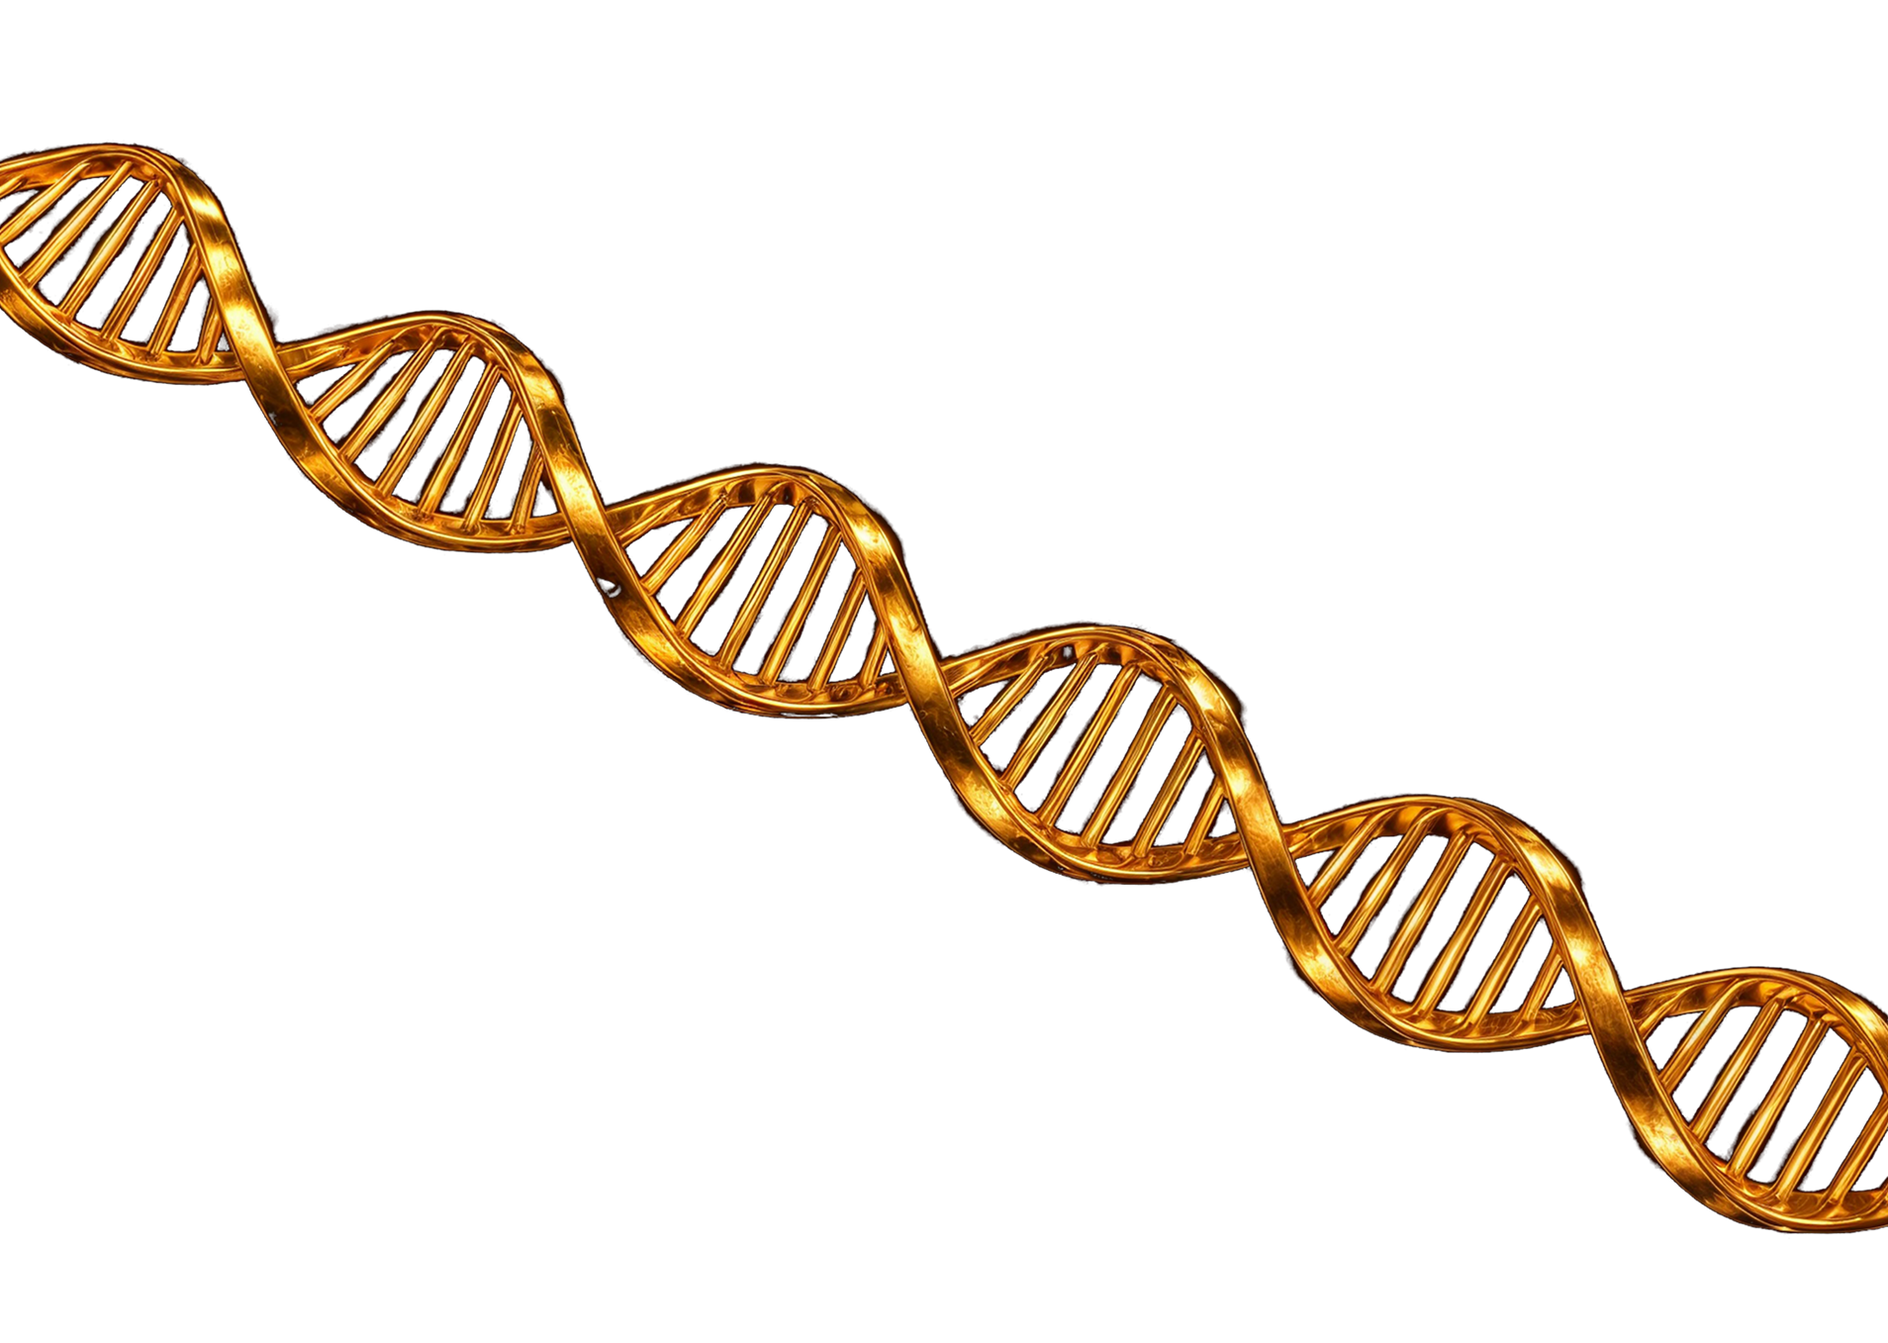
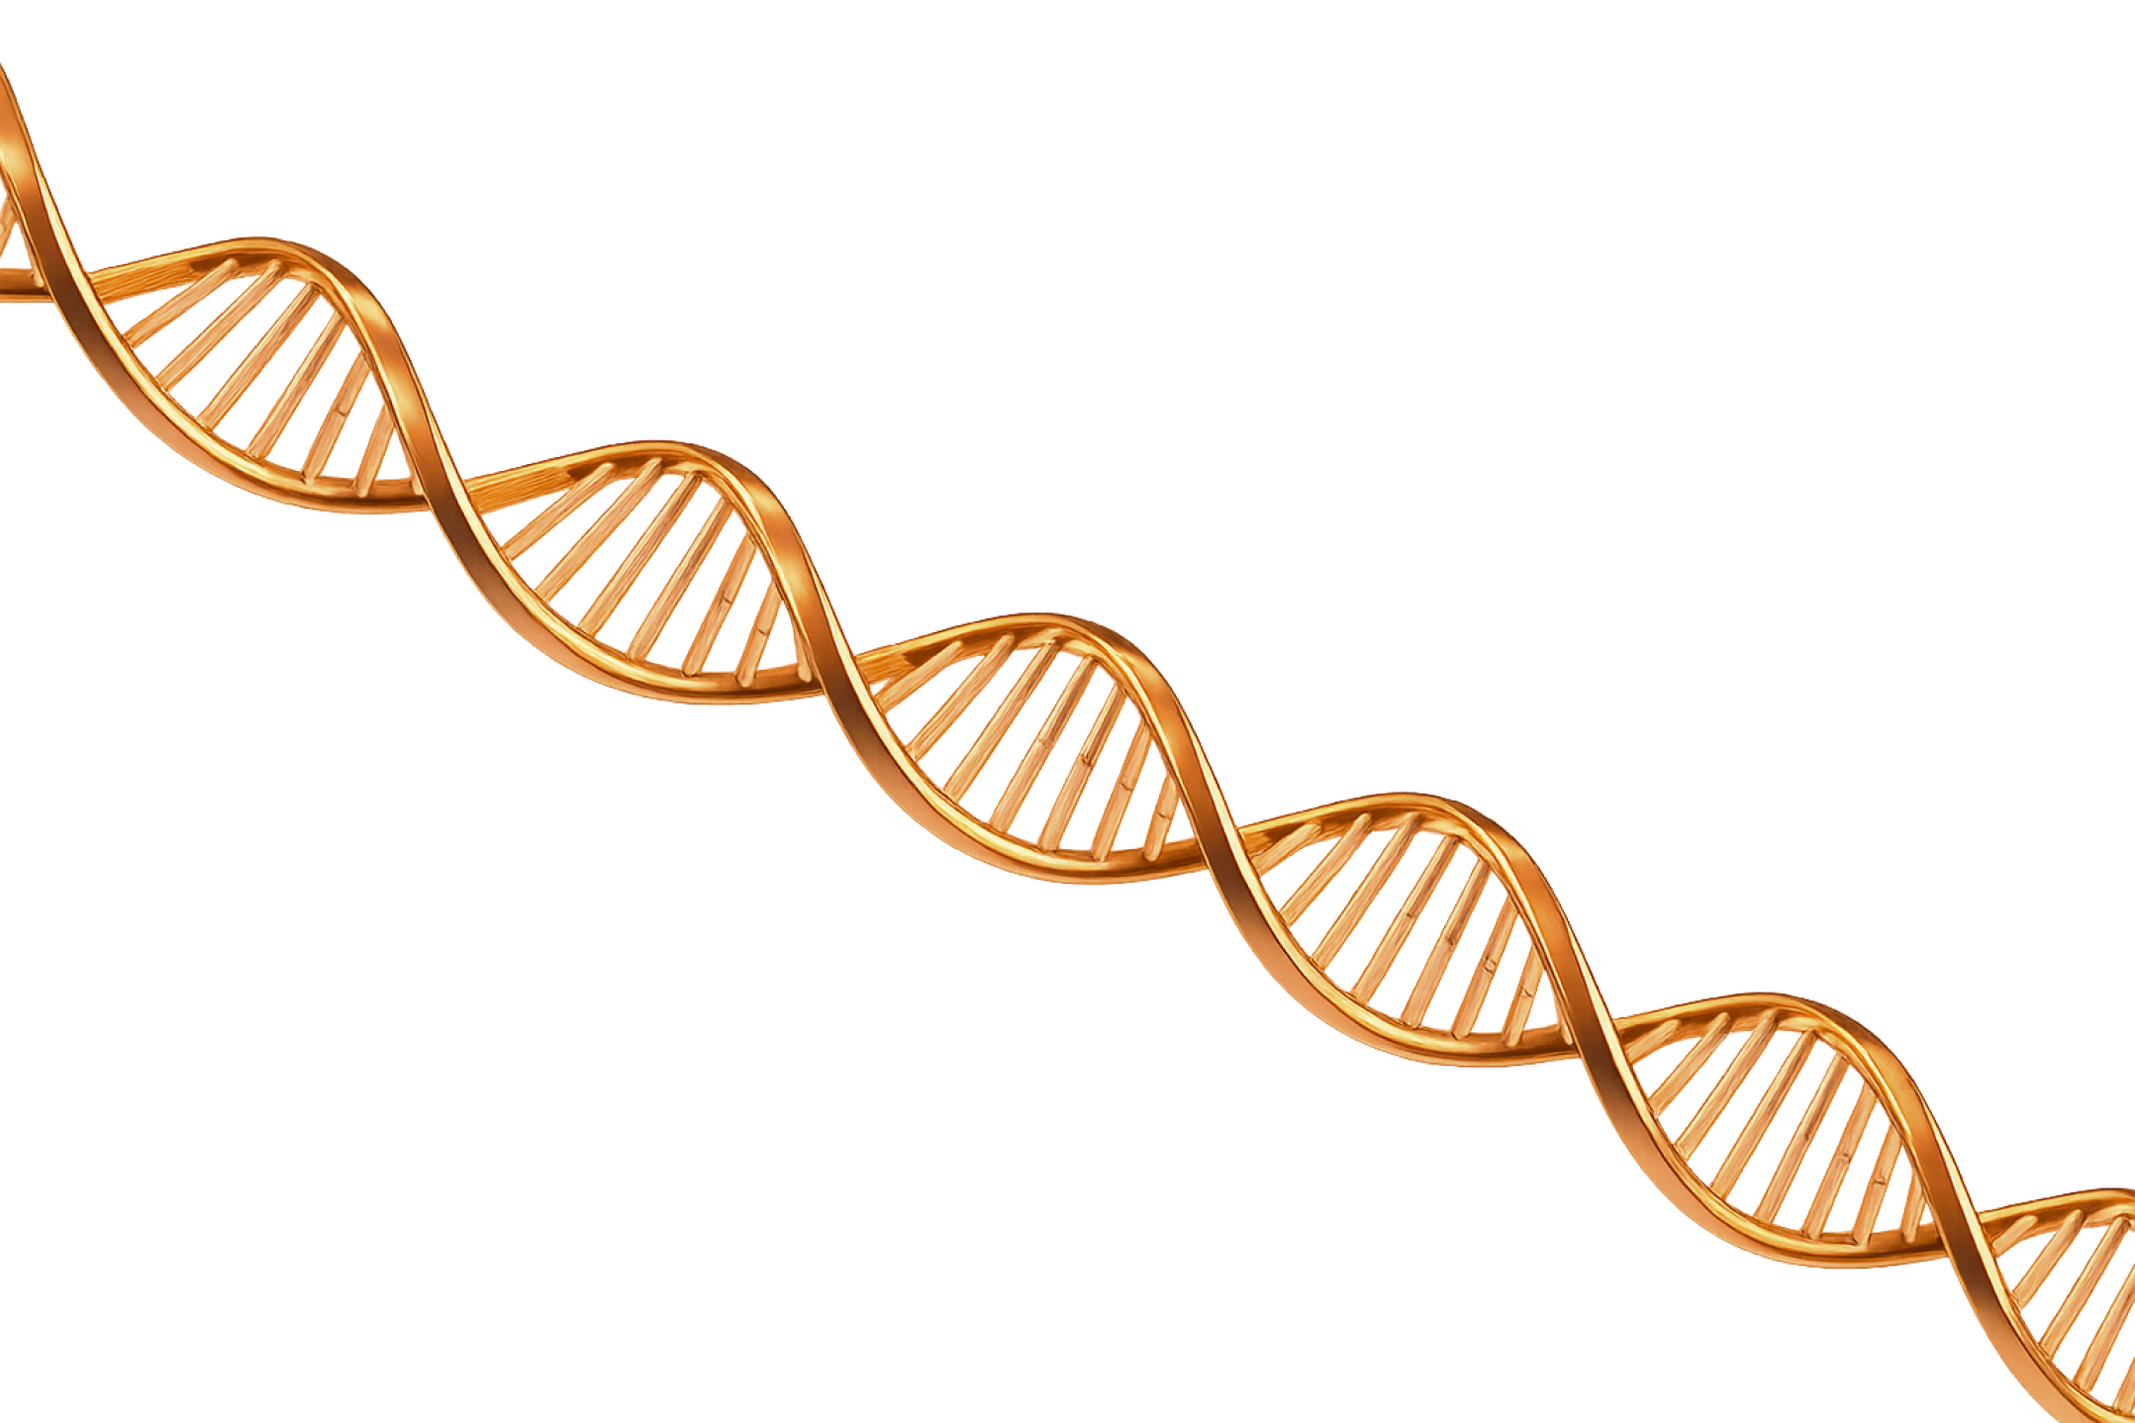
change about hero, change dna img

Changed region(s): [[0.0, 0.0619, 1.0, 1.0]]

diff --git a/src/app/responsive.css b/src/app/responsive.css
@@ -270,7 +270,7 @@
 
 @media (max-width: 1250px) {
 	.about_hero-title {
-		font-size: min(15vw, calc((100svh - 130px) / 1.85));
+		font-size: min(16vw, calc((100svh - 130px) / 1.85));
 	}
 
 	.about_hero-title > .about_hero-accent {
@@ -356,6 +356,10 @@
 }
 
 @media (max-width: 1200px) {
+	.about_hero-title {
+		margin-left: clamp(32px, 8vw, 96px);
+	}
+
 	.reviews_slider {
 		position: relative;
 		display: flex;
@@ -586,6 +590,10 @@
 		height: 100svh;
 		min-height: 450px;
 		display: block;
+	}
+
+	.about_hero-title {
+		margin-left: 0;
 	}
 
 	.about_hero-btn {

diff --git a/src/app/globals.css b/src/app/globals.css
@@ -3872,8 +3872,8 @@ a {
 	.about_hero-title {
 		position: relative;
 		z-index: 2;
-		margin-left: clamp(28px, 7vw, 140px);
-		font-size: min(15vw, calc((100svh - 135px) / 1.85));
+		margin-left: clamp(80px, 16vw, 300px);
+		font-size: min(16vw, calc((100svh - 135px) / 1.85));
 		line-height: 0.82;
 		text-align: left;
 		white-space: nowrap;
@@ -3895,7 +3895,7 @@ a {
 	.about_hero-astronaut {
 		position: absolute;
 		z-index: 3;
-		left: 50%;
+		left: 48%;
 		top: 51%;
 		width: min(76vw, max(1014px, calc(156svh - 167px)));
 		max-width: none;

diff --git a/NEWSLETTER_SETUP.md b/NEWSLETTER_SETUP.md
@@ -1,15 +1,97 @@
-# Newsletter setup
+# Настройка рассылки
 
-The site stores every subscription in Sanity and mirrors active subscribers to
-Resend. Each language has its own Resend Segment, so subscribers only receive
-articles in the language they selected on the site.
+На сайте подписки работают через два сервиса:
 
-## 1. Resend
+- **Sanity** хранит подписчиков и историю отправок;
+- **Resend** хранит контакты и отправляет письма.
 
-1. Verify the sending domain in Resend.
-2. Create three Segments: English, Russian, and Ukrainian.
-3. Create an API key with access to Contacts and Broadcasts.
-4. Add the following production environment variables:
+Для английской, русской и украинской версий используются отдельные сегменты
+Resend. Благодаря этому подписчик получает статьи только на выбранном языке.
+
+## Что понадобится
+
+- доступ к проекту **Resend**;
+- доступ к проекту **Sanity**;
+- доступ к настройкам проекта на **Vercel**;
+- домен `raagency.tech` и доступ к его DNS-записям.
+
+Секретные ключи нельзя добавлять в Git или вставлять в клиентский код. Их нужно
+хранить только в переменных окружения Vercel и, при локальной разработке, в
+файле `.env.local`.
+
+## Шаг 1. Подтвердить домен в Resend
+
+1. Зайти на [resend.com](https://resend.com/) и открыть нужный проект.
+2. В левом меню открыть **Domains**.
+3. Нажать **Add Domain** и добавить `raagency.tech`.
+4. Resend покажет DNS-записи, которые нужно создать у регистратора домена или
+   в панели управления DNS.
+5. Добавить все показанные записи.
+6. Вернуться в Resend → **Domains** и дождаться статуса **Verified**.
+
+Адрес отправителя в проекте:
+
+```text
+RA Agency <newsletter@raagency.tech>
+```
+
+Он заработает только после подтверждения домена.
+
+## Шаг 2. Создать три сегмента в Resend
+
+1. В Resend открыть раздел **Contacts** → **Segments**.
+2. Создать три сегмента:
+   - `English`;
+   - `Russian`;
+   - `Ukrainian`.
+3. Открыть каждый сегмент и скопировать его ID из страницы сегмента или URL.
+4. Сохранить соответствие:
+
+```env
+RESEND_NEWSLETTER_SEGMENT_ID_EN=ID_сегмента_English
+RESEND_NEWSLETTER_SEGMENT_ID_RU=ID_сегмента_Russian
+RESEND_NEWSLETTER_SEGMENT_ID_UA=ID_сегмента_Ukrainian
+```
+
+Не путать ID сегмента с его названием.
+
+## Шаг 3. Создать API-ключ Resend
+
+1. В Resend открыть **API Keys**.
+2. Нажать **Create API Key**.
+3. Назвать ключ, например `RA Agency Production`.
+4. Выдать ключу доступ, необходимый для **Contacts** и **Broadcasts**.
+5. Скопировать ключ сразу после создания. Повторно полностью посмотреть его
+   обычно нельзя.
+
+Получится значение вида:
+
+```env
+RESEND_API_KEY=re_...
+```
+
+## Шаг 4. Создать токен Sanity
+
+1. Открыть [sanity.io/manage](https://www.sanity.io/manage).
+2. Выбрать проект RA Agency.
+3. Открыть **API** → **Tokens**.
+4. Нажать **Add API token**.
+5. Назвать токен, например `RA Agency Newsletter Production`.
+6. Выбрать права **Editor**. Токен должен уметь создавать и изменять документы
+   `newsletterSubscriber` и `newsletterDelivery`.
+7. Скопировать токен.
+
+Полученное значение:
+
+```env
+SANITY_API_WRITE_TOKEN=...
+```
+
+## Шаг 5. Добавить переменные окружения в Vercel
+
+1. Открыть проект сайта в [vercel.com](https://vercel.com/).
+2. Перейти в **Settings** → **Environment Variables**.
+3. Добавить все переменные ниже для окружения **Production**:
 
 ```env
 RESEND_API_KEY=re_...
@@ -18,46 +100,135 @@ RESEND_NEWSLETTER_SEGMENT_ID_RU=...
 RESEND_NEWSLETTER_SEGMENT_ID_UA=...
 RESEND_FROM_EMAIL="RA Agency <newsletter@raagency.tech>"
 NEXT_PUBLIC_SITE_URL=https://raagency.tech
+SANITY_API_WRITE_TOKEN=...
 ```
 
-## 2. Sanity webhook
+Переменную `SANITY_WEBHOOK_SECRET` добавим на следующем шаге.
 
-Create a document webhook in the Sanity project:
+После добавления или изменения переменных нужно выполнить новый **Deploy**.
+Старый уже запущенный deployment новые значения не получит.
 
-- URL: `https://raagency.tech/api/newsletter/article-published`
-- Trigger: Create and Update
-- Dataset: the production dataset
-- Filter:
+## Шаг 6. Создать секрет для webhook
+
+Сгенерировать длинную случайную строку. Это будет общий секрет между Sanity и
+сайтом. Например, можно использовать менеджер паролей и создать пароль длиной
+не менее 32 символов.
+
+1. В Vercel добавить переменную:
+
+```env
+SANITY_WEBHOOK_SECRET=ваша_длинная_случайная_строка
+```
+
+2. Сохранить эту строку — точно такое же значение понадобится в Sanity.
+3. Никому не отправлять секрет и не добавлять его в репозиторий.
+
+## Шаг 7. Создать webhook в Sanity
+
+1. Открыть [sanity.io/manage](https://www.sanity.io/manage).
+2. Выбрать проект RA Agency.
+3. Открыть **API** → **Webhooks**.
+4. Нажать **Create webhook**.
+5. Заполнить настройки:
+
+   - **Name:** `Newsletter — article published`;
+   - **URL:** `https://raagency.tech/api/newsletter/article-published`;
+   - **Dataset:** `production`;
+   - **Trigger on:** `Create` и `Update`;
+   - **Include drafts:** выключено;
+   - **Secret:** значение `SANITY_WEBHOOK_SECRET` из Vercel.
+
+6. В поле **Filter** вставить:
 
 ```groq
 _type == "article" && status in ["published", "scheduled"]
 ```
 
-- Projection:
+7. В поле **Projection** вставить:
 
 ```groq
 {_id, title, excerpt, language, status, publishedAt, "slug": slug.current}
 ```
 
-- Include drafts: off
-- Secret: a new random value, also stored as `SANITY_WEBHOOK_SECRET` in the
-  production environment.
+8. Сохранить webhook.
 
-The endpoint records a deterministic delivery document for every article, so
-repeated article updates do not send the same newsletter twice. Scheduled
-articles create a scheduled Resend Broadcast for `publishedAt`.
+Важно: секрет в Sanity и `SANITY_WEBHOOK_SECRET` в Vercel должны полностью
+совпадать, включая регистр символов.
 
-## 3. Required Sanity variables
+## Шаг 8. Перед проверкой сделать новый deployment
+
+После того как все переменные добавлены:
+
+1. В Vercel открыть вкладку **Deployments**.
+2. Открыть меню последнего production deployment.
+3. Нажать **Redeploy**.
+4. Дождаться статуса **Ready**.
+
+## Шаг 9. Проверить подписку
+
+Проверять лучше на трёх разных email-адресах:
+
+1. Открыть английскую версию сайта и подписаться.
+2. Открыть русскую версию и подписаться другим адресом.
+3. Открыть украинскую версию и подписаться третьим адресом.
+4. В Sanity Studio открыть:
+   - **Newsletter subscribers** — подписчики должны появиться здесь;
+   - у каждого подписчика поле синхронизации должно показывать успешный статус.
+5. В Resend открыть **Contacts** и убедиться, что каждый адрес добавлен в
+   правильный языковой сегмент.
+
+Если подписчик появился в Sanity, но не появился в Resend, проверить:
+
+- `RESEND_API_KEY`;
+- ID всех трёх сегментов;
+- права API-ключа Resend;
+- логи функции `/api/newsletter/subscribe` в Vercel.
+
+## Шаг 10. Проверить отправку статьи
+
+Сначала использовать тестовую статью, а не настоящую публикацию:
+
+1. Создать в Sanity Studio тестовую статью.
+2. Проверить, что заполнены:
+   - заголовок;
+   - slug;
+   - язык;
+   - краткое описание;
+   - статус;
+   - дата публикации.
+3. Установить статус `published` для немедленной отправки или `scheduled` для
+   запланированной.
+4. Сохранить/опубликовать документ.
+5. В Sanity Studio открыть **Newsletter deliveries**.
+6. Проверить статус отправки:
+   - `sent` — письмо отправлено;
+   - `scheduled` — письмо запланировано;
+   - `failed` — произошла ошибка, её текст должен быть записан в документе.
+7. В Resend открыть **Broadcasts** и проверить созданную рассылку.
+8. Убедиться, что письмо пришло тестовому подписчику нужного языка и ссылка
+   ведёт на правильную статью.
+
+Повторное обновление одной и той же статьи не должно отправлять письмо второй
+раз: сайт создаёт для статьи отдельную запись доставки и проверяет её статус.
+
+## Итоговый список переменных
+
+В production-окружении Vercel должны быть заполнены:
 
 ```env
+NEXT_PUBLIC_SANITY_PROJECT_ID=...
+NEXT_PUBLIC_SANITY_DATASET=production
 SANITY_API_WRITE_TOKEN=...
 SANITY_WEBHOOK_SECRET=...
+
+RESEND_API_KEY=re_...
+RESEND_NEWSLETTER_SEGMENT_ID_EN=...
+RESEND_NEWSLETTER_SEGMENT_ID_RU=...
+RESEND_NEWSLETTER_SEGMENT_ID_UA=...
+RESEND_FROM_EMAIL="RA Agency <newsletter@raagency.tech>"
+
+NEXT_PUBLIC_SITE_URL=https://raagency.tech
 ```
 
-The token must be able to create and update `newsletterSubscriber` and
-`newsletterDelivery` documents.
-
-After deployment, test with one address in each language before publishing the
-first production article. In Sanity Studio, use **Newsletter subscribers** to
-see signups and **Newsletter deliveries** to inspect sent, scheduled, or failed
-broadcasts.
+`SANITY_API_READ_TOKEN` к самой рассылке не относится, но может требоваться
+другим функциям сайта.
